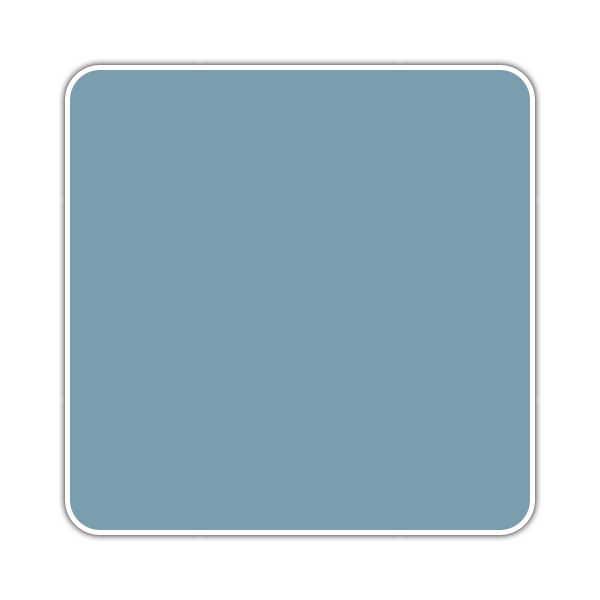
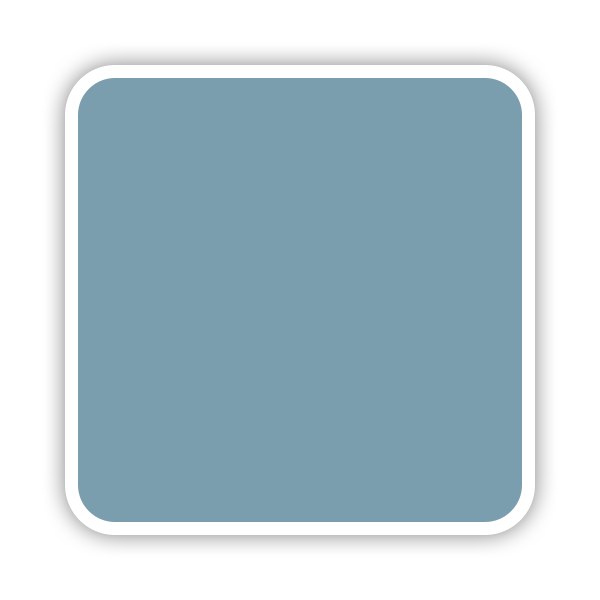
Better game board, same dimensions as current one.

Changed region(s): [[0.09, 0.09, 0.93, 0.93]]

diff --git a/app/game/directive.js b/app/game/directive.js
@@ -20,7 +20,7 @@ Game.directive('game', ['$window', 'random', '$timeout', 'Swap', function($windo
       var candyScale = 1;
       
       // Max width of game board.
-      var maxBoardWidth = 600;
+      var maxBoardWidth = 810;
       
       // CreateJS asset loader.
       var assetLoader = new createjs.LoadQueue();
